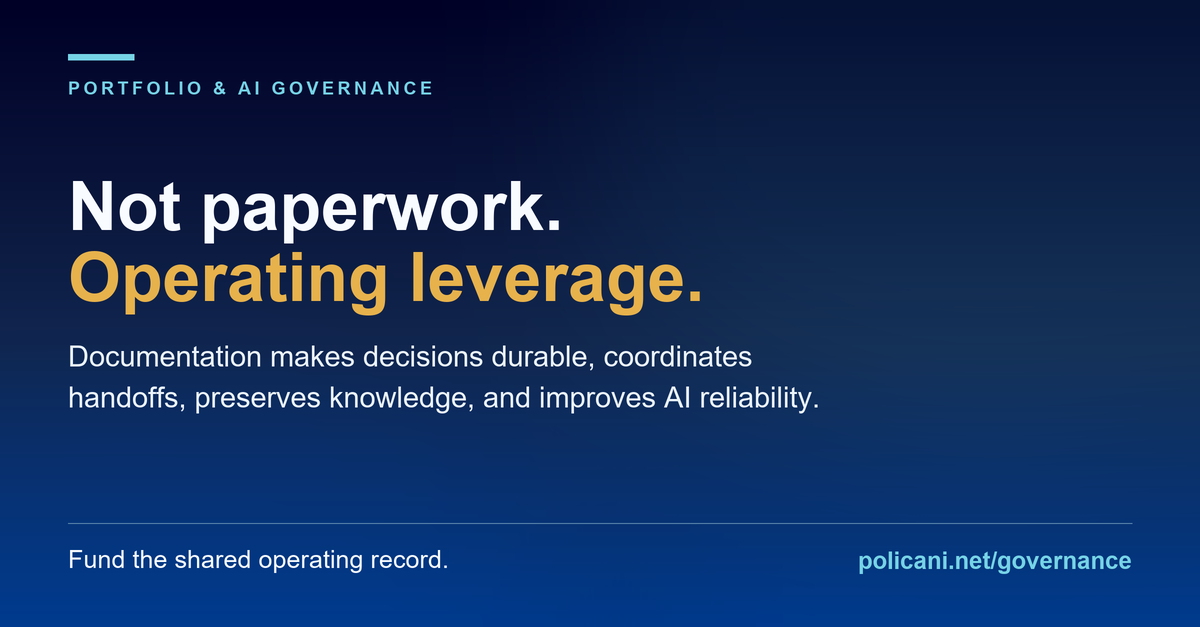
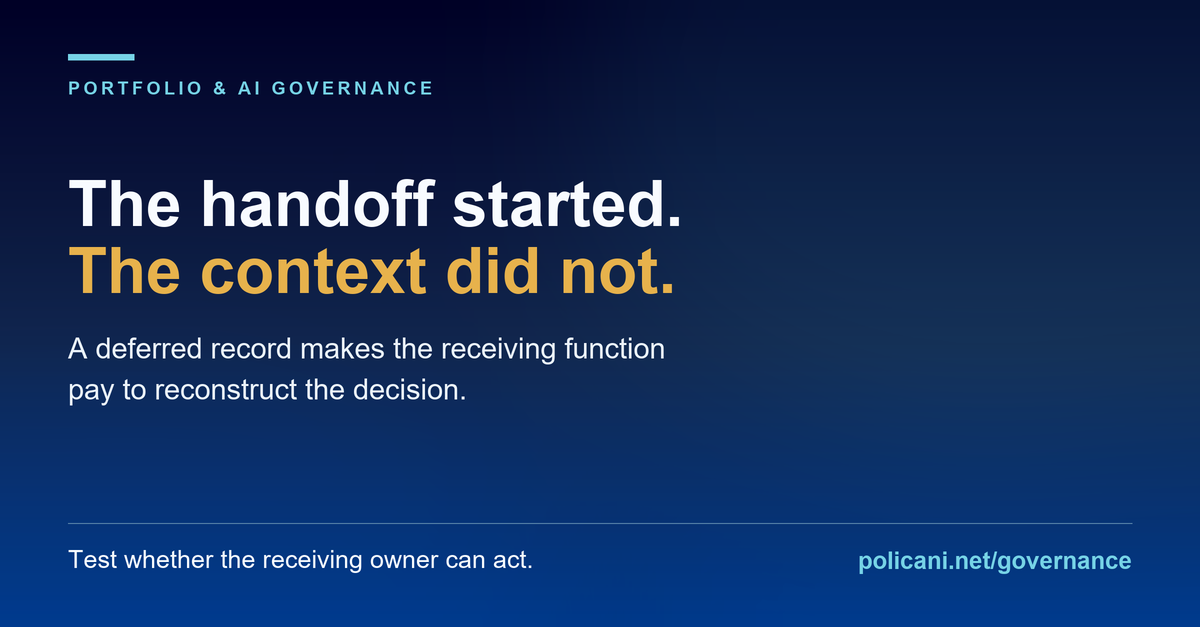
Field note: clarify TL;DR — approvals vs. an authorized decision, governance vs. decision ownership

Changed region(s): [[0.0617, 0.2727, 0.5858, 0.5152], [0.0617, 0.5455, 0.6783, 0.6667], [0.0617, 0.8788, 0.4625, 0.9091]]

diff --git a/governance/index.html b/governance/index.html
@@ -33,11 +33,11 @@
 <section id="library" class="library-index-intro" aria-labelledby="library-heading"><div class="section-inner"><p class="section-kicker">The complete library</p><h2 id="library-heading">Govern the decisions that shape delivery and AI.</h2><p class="lead">Browse every field note on one page. Search by a decision, operating problem, or topic, or move directly to the chapter closest to the work in front of you.</p><div class="library-tools"><label class="library-search"><span>Search all 34 field notes</span><input type="search" data-library-search placeholder="Try &quot;capacity,&quot; &quot;evaluation,&quot; or &quot;value&quot;" autocomplete="off"></label><nav class="chapter-links" aria-label="Library chapters"><a href="#portfolio-delivery">Portfolio &amp; delivery <span>14</span></a><a href="#ai-governance">AI governance <span>13</span></a><a href="#work-judgment">Work &amp; judgment <span>7</span></a></nav></div><p class="library-results" data-library-results aria-live="polite">Showing all 34 field notes.</p></div></section>
 
 <section id="portfolio-delivery" class="library-chapter chapter-portfolio" data-library-chapter aria-labelledby="portfolio-heading"><div class="section-inner"><header class="chapter-header"><div class="chapter-heading-row"><p class="section-kicker">Portfolio &amp; delivery governance</p><span class="chapter-count">14 field notes</span></div><h2 id="portfolio-heading">Make commitments, capacity, and value easier to steer.</h2><p class="lead">Decide what can move, what must wait, what is truly ready, and how expected value remains owned after approval.</p></header><div class="editorial-grid">
-<article class="library-entry entry-feature" data-sequence="35" data-category="Portfolio &amp; delivery governance" data-summary="In a cross-domain approval meeting, every specialist can be right while the enterprise decision goes unmade. Domain leaders keep their standards and judgment; the EPMO owns the framework that ties the combined conditions into one authorized decision anyone can reconstruct later."><span class="entry-kicker">Field note &middot; Aug 2026</span><h3><a href="field-notes/enterprise-governance-ownership.html">Who owns governance?</a></h3><p>In a cross-domain approval meeting, every specialist can be right while the enterprise decision goes unmade. Domain leaders keep their standards and judgment; the EPMO owns the framework that ties the combined conditions into one authorized decision anyone can reconstruct later.</p><div class="entry-links"><a href="field-notes/enterprise-governance-ownership.html">Read note</a><a href="whitepapers/marco-policani-enterprise-governance-ownership.pdf">White paper</a></div></article>
-<article class="library-entry" data-sequence="33" data-category="Portfolio &amp; delivery governance" data-summary="Hitting the target does not prove the decision was sound or even that the outcome was successful. Judge what was achieved, how it was achieved, and whether the original decision was reasonable given what was known at the time."><span class="entry-kicker">Field note &middot; Aug 2026</span><h3><a href="field-notes/separate-the-decision-from-the-outcome.html">Separate the decision from the outcome</a></h3><div class="entry-links"><a href="field-notes/separate-the-decision-from-the-outcome.html">Read note</a><a href="whitepapers/marco-policani-separate-the-decision-from-the-outcome.pdf">White paper</a></div></article>
+<article class="library-entry entry-feature" data-sequence="35.0" data-category="Portfolio &amp; delivery governance" data-summary="In a cross-domain approval meeting, every domain can sign off on its own area and the enterprise decision still goes unmade. Owning governance is not owning that decision: domain leaders keep their standards, the sponsor owns the outcome, and the EPMO owns the framework that lets an authorized leader turn those separate approvals into one decision anyone can reconstruct later."><span class="entry-kicker">Field note &middot; Aug 2026</span><h3><a href="field-notes/enterprise-governance-ownership.html">Who owns governance?</a></h3><p>In a cross-domain approval meeting, every domain can sign off on its own area and the enterprise decision still goes unmade. Owning governance is not owning that decision: domain leaders keep their standards, the sponsor owns the outcome, and the EPMO owns the framework that lets an authorized leader turn those separate approvals into one decision anyone can reconstruct later.</p><div class="entry-links"><a href="field-notes/enterprise-governance-ownership.html">Read note</a><a href="whitepapers/marco-policani-enterprise-governance-ownership.pdf">White paper</a></div></article>
+<article class="library-entry" data-sequence="33.0" data-category="Portfolio &amp; delivery governance" data-summary="Hitting the target does not prove the decision was sound or even that the outcome was successful. Judge what was achieved, how it was achieved, and whether the original decision was reasonable given what was known at the time."><span class="entry-kicker">Field note &middot; Aug 2026</span><h3><a href="field-notes/separate-the-decision-from-the-outcome.html">Separate the decision from the outcome</a></h3><div class="entry-links"><a href="field-notes/separate-the-decision-from-the-outcome.html">Read note</a><a href="whitepapers/marco-policani-separate-the-decision-from-the-outcome.pdf">White paper</a></div></article>
 <article class="library-entry" data-sequence="32" data-category="Portfolio &amp; delivery governance" data-summary="Govern a portfolio by moving capacity in short cycles on evidence, not by defending an annual plan."><span class="entry-kicker">Field note &middot; Aug 2026</span><h3><a href="field-notes/capital-reallocation-real-portfolio-decision.html">Capital reallocation is the real portfolio decision</a></h3><div class="entry-links"><a href="field-notes/capital-reallocation-real-portfolio-decision.html">Read note</a><a href="whitepapers/marco-policani-capital-reallocation-real-portfolio-decision.pdf">White paper</a></div></article>
 <article class="library-entry" data-sequence="30" data-category="Portfolio &amp; delivery governance" data-summary="Assign who recommends, agrees, decides, and performs for each consequential choice, then embed those rights in the workflow."><span class="entry-kicker">Field note &middot; Aug 2026</span><h3><a href="field-notes/decision-rights-are-a-system-design-choice.html">Decision rights are a system-design choice</a></h3><div class="entry-links"><a href="field-notes/decision-rights-are-a-system-design-choice.html">Read note</a><a href="whitepapers/marco-policani-decision-rights-are-a-system-design-choice.pdf">White paper</a></div></article>
-<article class="library-entry" data-sequence="29" data-category="Portfolio &amp; delivery governance" data-summary="Standardize a reusable operating component only after it has earned cross-project reliance through evidence, ownership, bounded variants, visible change control, exception signals, and a retirement path."><span class="entry-kicker">Field note &middot; Aug 2026</span><h3><a href="field-notes/standardize-the-component-not-the-project.html">Standardize the Component, Not the Project</a></h3><div class="entry-links"><a href="field-notes/standardize-the-component-not-the-project.html">Read note</a><a href="whitepapers/marco-policani-standardize-the-component-not-the-project.pdf">White paper</a></div></article>
+<article class="library-entry" data-sequence="29.0" data-category="Portfolio &amp; delivery governance" data-summary="Standardize a reusable operating component only after it has earned cross-project reliance through evidence, ownership, bounded variants, visible change control, exception signals, and a retirement path."><span class="entry-kicker">Field note &middot; Aug 2026</span><h3><a href="field-notes/standardize-the-component-not-the-project.html">Standardize the Component, Not the Project</a></h3><div class="entry-links"><a href="field-notes/standardize-the-component-not-the-project.html">Read note</a><a href="whitepapers/marco-policani-standardize-the-component-not-the-project.pdf">White paper</a></div></article>
 <article class="library-entry" data-sequence="21" data-category="Portfolio &amp; delivery governance" data-summary="Replace the brittle annual plan with scenarios that make capacity, tradeoffs, and decision consequences visible."><span class="entry-kicker">Field note &middot; Jul 2026</span><h3><a href="field-notes/portfolio-scenarios-not-plan.html">A portfolio needs scenarios, not a single annual plan</a></h3><div class="entry-links"><a href="field-notes/portfolio-scenarios-not-plan.html">Read note</a><a href="whitepapers/marco-policani-portfolio-scenarios-not-plan.pdf">White paper</a></div></article>
 <article class="library-entry" data-sequence="20" data-category="Portfolio &amp; delivery governance" data-summary="Make the decisions holding up the work visible before delay turns into rework."><span class="entry-kicker">Field note &middot; Jul 2026</span><h3><a href="field-notes/decision-friction-portfolio-risk.html">Decision friction is a portfolio risk</a></h3><div class="entry-links"><a href="field-notes/decision-friction-portfolio-risk.html">Read note</a><a href="whitepapers/marco-policani-decision-friction-portfolio-risk.pdf">White paper</a></div></article>
 <article class="library-entry" data-sequence="19" data-category="Portfolio &amp; delivery governance" data-summary="A useful PMO dashboard shows investment health, not only delivery activity."><span class="entry-kicker">Field note &middot; Jul 2026</span><h3><a href="field-notes/investment-health-dashboard.html">A PMO dashboard should show investment health</a></h3><div class="entry-links"><a href="field-notes/investment-health-dashboard.html">Read note</a><a href="whitepapers/marco-policani-investment-health-dashboard.pdf">White paper</a></div></article>
@@ -66,7 +66,7 @@
 </div></div></section>
 
 <section id="work-judgment" class="library-chapter chapter-work" data-library-chapter aria-labelledby="work-heading"><div class="section-inner"><header class="chapter-header"><div class="chapter-heading-row"><p class="section-kicker">Work, adoption &amp; judgment</p><span class="chapter-count">7 field notes</span></div><h2 id="work-heading">Design work that preserves learning and accountability.</h2><p class="lead">Use AI to improve judgment, reduce coordination burden, and strengthen evidence without eroding the people and operating knowledge the work depends on.</p></header><div class="editorial-grid">
-<article class="library-entry entry-feature" data-sequence="34" data-category="Work, adoption &amp; judgment" data-summary="Govern AI on evidence of the work — a baseline, a work-output signal, and a review that separates felt speed from delivered outcome — because self-reported speedup is not operating evidence."><span class="entry-kicker">Field note &middot; Aug 2026</span><h3><a href="field-notes/felt-productivity-not-measured-productivity.html">Felt productivity is not measured productivity</a></h3><p>Govern AI on evidence of the work — a baseline, a work-output signal, and a review that separates felt speed from delivered outcome — because self-reported speedup is not operating evidence.</p><div class="entry-links"><a href="field-notes/felt-productivity-not-measured-productivity.html">Read note</a><a href="whitepapers/marco-policani-felt-productivity-not-measured-productivity.pdf">White paper</a></div></article>
+<article class="library-entry entry-feature" data-sequence="34.0" data-category="Work, adoption &amp; judgment" data-summary="Govern AI on evidence of the work — a baseline, a work-output signal, and a review that separates felt speed from delivered outcome — because self-reported speedup is not operating evidence."><span class="entry-kicker">Field note &middot; Aug 2026</span><h3><a href="field-notes/felt-productivity-not-measured-productivity.html">Felt productivity is not measured productivity</a></h3><p>Govern AI on evidence of the work — a baseline, a work-output signal, and a review that separates felt speed from delivered outcome — because self-reported speedup is not operating evidence.</p><div class="entry-links"><a href="field-notes/felt-productivity-not-measured-productivity.html">Read note</a><a href="whitepapers/marco-policani-felt-productivity-not-measured-productivity.pdf">White paper</a></div></article>
 <article class="library-entry" data-sequence="28" data-category="Work, adoption &amp; judgment" data-summary="Automation is only as reliable as its recovery path; classify exceptions and make accountable human response part of the workflow."><span class="entry-kicker">Field note &middot; Jul 2026</span><h3><a href="field-notes/exception-path-automation.html">The exception path is the real automated workflow</a></h3><div class="entry-links"><a href="field-notes/exception-path-automation.html">Read note</a><a href="whitepapers/marco-policani-exception-path-automation.pdf">White paper</a></div></article>
 <article class="library-entry" data-sequence="27" data-category="Work, adoption &amp; judgment" data-summary="Design the coordination topology before declaring work streamlined, autonomous, or automated."><span class="entry-kicker">Field note &middot; Jul 2026</span><h3><a href="field-notes/coordination-tax.html">The coordination tax</a></h3><div class="entry-links"><a href="field-notes/coordination-tax.html">Read note</a><a href="whitepapers/marco-policani-coordination-tax.pdf">White paper</a></div></article>
 <article class="library-entry" data-sequence="15" data-category="Work, adoption &amp; judgment" data-summary="A working demonstration and a credible leadership story can still leave a sponsor unable to inspect the claim. One record created during delivery can support the next AI investment decision and the leader's later, bounded account of the work."><span class="entry-kicker">Field note &middot; Jul 2026</span><h3><a href="field-notes/prove-it-economy-careers-ai-programs.html">The prove-it economy is coming for careers and AI programs</a></h3><div class="entry-links"><a href="field-notes/prove-it-economy-careers-ai-programs.html">Read note</a><a href="whitepapers/marco-policani-prove-it-economy-careers-ai-programs.pdf">White paper</a></div></article>

diff --git a/governance/field-notes/enterprise-governance-ownership.html b/governance/field-notes/enterprise-governance-ownership.html
@@ -4,11 +4,11 @@
 <meta charset="utf-8">
 <meta name="viewport" content="width=device-width, initial-scale=1">
 <title>Who owns governance? | Marco Policani</title>
-<meta name="description" content="In a cross-domain approval meeting, every specialist can be right while the enterprise decision goes unmade. Domain leaders keep their standards and judgment; the EPMO owns the framework that ties the combined conditions into one authorized decision anyone can reconstruct later.">
+<meta name="description" content="In a cross-domain approval meeting, every domain can sign off on its own area and the enterprise decision still goes unmade. Owning governance is not owning that decision: domain leaders keep their standards, the sponsor owns the outcome, and the EPMO owns the framework that lets an authorized leader turn those separate approvals into one decision anyone can reconstruct later.">
 <meta name="author" content="Marco Policani">
 <meta name="robots" content="index, follow">
 <meta property="og:title" content="Who owns governance? | Marco Policani">
-<meta property="og:description" content="In a cross-domain approval meeting, every specialist can be right while the enterprise decision goes unmade. Domain leaders keep their standards and judgment; the EPMO owns the framework that ties the combined conditions into one authorized decision anyone can reconstruct later.">
+<meta property="og:description" content="In a cross-domain approval meeting, every domain can sign off on its own area and the enterprise decision still goes unmade. Owning governance is not owning that decision: domain leaders keep their standards, the sponsor owns the outcome, and the EPMO owns the framework that lets an authorized leader turn those separate approvals into one decision anyone can reconstruct later.">
 <meta property="og:type" content="article">
 <meta property="og:url" content="https://policani.net/governance/field-notes/enterprise-governance-ownership.html">
 <meta property="og:image" content="https://policani.net/assets/field-note-enterprise-governance-ownership-1200x627.png">
@@ -16,7 +16,7 @@
 <link rel="canonical" href="https://policani.net/governance/field-notes/enterprise-governance-ownership.html">
 <link rel="icon" type="image/svg+xml" href="../../assets/favicon.svg">
 <link rel="stylesheet" href="../../assets/portfolio-site.css?v=20260720-fieldnote-hero">
-<script type="application/ld+json">{"@context":"https://schema.org","@type":"Article","headline":"Who owns governance?","description":"In a cross-domain approval meeting, every specialist can be right while the enterprise decision goes unmade. Domain leaders keep their standards and judgment; the EPMO owns the framework that ties the combined conditions into one authorized decision anyone can reconstruct later.","dateModified":"2026-08-13","author":{"@type":"Person","name":"Marco Policani","url":"https://policani.net/"},"mainEntityOfPage":"https://policani.net/governance/field-notes/enterprise-governance-ownership.html"}</script>
+<script type="application/ld+json">{"@context":"https://schema.org","@type":"Article","headline":"Who owns governance?","description":"In a cross-domain approval meeting, every domain can sign off on its own area and the enterprise decision still goes unmade. Owning governance is not owning that decision: domain leaders keep their standards, the sponsor owns the outcome, and the EPMO owns the framework that lets an authorized leader turn those separate approvals into one decision anyone can reconstruct later.","dateModified":"2026-08-13","author":{"@type":"Person","name":"Marco Policani","url":"https://policani.net/"},"mainEntityOfPage":"https://policani.net/governance/field-notes/enterprise-governance-ownership.html"}</script>
 <link rel="preconnect" href="https://fonts.googleapis.com">
 <link rel="preconnect" href="https://fonts.gstatic.com" crossorigin>
 <link href="https://fonts.googleapis.com/css2?family=Inter:wght@300;400;500;600&family=Geist+Mono:wght@400;500&display=swap" rel="stylesheet">
@@ -43,7 +43,7 @@
     <div class="hero-copy">
       <p class="eyebrow"><a href="../index.html#portfolio-delivery">Portfolio &amp; delivery governance</a> &middot; Field note</p>
       <h1>Who owns governance?</h1>
-      <p class="subhead">In a cross-domain approval meeting, every specialist can be right while the enterprise decision goes unmade. Domain leaders keep their standards and judgment; the EPMO owns the framework that ties the combined conditions into one authorized decision anyone can reconstruct later.</p>
+      <p class="subhead">In a cross-domain approval meeting, every domain can sign off on its own area and the enterprise decision still goes unmade. Owning governance is not owning that decision: domain leaders keep their standards, the sponsor owns the outcome, and the EPMO owns the framework that lets an authorized leader turn those separate approvals into one decision anyone can reconstruct later.</p>
     </div>
   </div>
 </header>
@@ -53,7 +53,7 @@
       <div class="field-note-layout">
         <article class="field-note-tldr">
           <p class="section-kicker">TL;DR</p>
-          <p class="field-note-thesis">In a cross-domain approval meeting, every specialist can be right while the enterprise decision goes unmade. Domain leaders keep their standards and judgment; the EPMO owns the framework that ties the combined conditions into one authorized decision anyone can reconstruct later.</p>
+          <p class="field-note-thesis">In a cross-domain approval meeting, every domain can sign off on its own area and the enterprise decision still goes unmade. Owning governance is not owning that decision: domain leaders keep their standards, the sponsor owns the outcome, and the EPMO owns the framework that lets an authorized leader turn those separate approvals into one decision anyone can reconstruct later.</p>
           <div class="field-note-context">
             <h2>What the paper develops</h2>
 <h2>Who owns governance?</h2><p>The sponsor asks one question: &quot;Are we approved to proceed?&quot;</p><p>Security says yes, as long as the rollout is more tightly controlled. Data governance says yes, but not using customer transcripts the way the plan assumes. Architecture can support the design once one dependency is cleared. Operations can&#x27;t run the old and new processes side by side for the whole switchover. Finance points out that all of these changes remove the cheaper option and push the payoff date back.</p><p>Every team is right about its own area. Add the answers up, though, and you get an investment nobody actually chose. All those approvals put the decision on the table. None of them made it.</p><h3>The missing job</h3><p>Think about driving. The road authority sets the rules. The car has its limits and safety systems. The driver picks the destination and owns the trip. Navigation pulls the destination, the traffic, the closures, and the routes into one view so the driver can choose. It doesn&#x27;t write the traffic laws, and it doesn&#x27;t decide where to go. It just makes a responsible choice possible.</p><p>That navigation role is the one missing in the meeting, and it&#x27;s the one the EPMO should own: the framework around a cross-domain choice. What is being decided, which evidence has to be weighed, what options remain, and who has the authority to decide.</p><h3>Approvals are not a decision</h3><p>A strategic program can finish every review and still be ungoverned. Each condition can be sound on its own while, together, they add up to a different investment than the one the sponsor asked the organization to approve. Collecting approvals is not the same as making the decision.</p><p>In the meeting above, the plan that was approved no longer works under what&#x27;s now known. The organization could keep the outcome by funding the tighter design, or narrow the outcome to fit the limits. It could change the order, free up capacity elsewhere, wait, or stop. No single function can make that enterprise choice.</p><p>The EPMO shouldn&#x27;t overrule the specialists. It should show the sponsor whether the original outcome still holds and how the remaining options would affect the portfolio. The record also has to say who can decide and what new evidence would force another look.</p><h3>What the EPMO owns</h3><p>Enterprise leaders own the strategic and risk boundaries. Domain leaders own their standards, evidence, and expert judgments. The sponsor owns the outcome. A delegated forum or executive owns the investment decision within its authority. Independent assurance owns its review and challenge.</p><p>The EPMO owns the framework that ties the decision together. It keeps track of who owns what and what evidence each domain has to bring. It frames the portfolio options and names who decides and who can grant an exception. It keeps the escalation path, the decision record, and the review triggers. The framework makes sure the authorized decision weighs the right evidence and can be reconstructed later. It doesn&#x27;t take over the expert judgments or the business outcome.</p><p>The framework comes down to six questions. What outcome are we after? Which rules and limits apply? What do we know about current conditions? What options are still open? Who decides, and who can grant an exception? What would reopen the decision? Each one produces something an authorized leader can actually use. Together, they turn separate domain reviews into one enterprise choice without stripping the domains of their authority.</p><h3>The conversation to have first</h3><p>When an organization says the EPMO owns governance, start by asking which decisions it means. Assign each standard to its domain owner and the outcome to its sponsor. Name the authority that can accept an exception or change the investment. Then define the evidence that would force another look. Those answers turn a vague assignment into a usable operating model.</p><p>The real test is whether a skeptical executive can reconstruct the decision. That executive should be able to see the intended outcome, the limits that applied, and what the experts found. The record should show the options, who decided, the conditions they accepted, and the review trigger. A stack of meetings and status colors can&#x27;t provide that.</p><p>Come back to the sponsor&#x27;s question. The honest answer isn&#x27;t a pile of domain approvals. It&#x27;s the recorded decision an authorized leader made after seeing the conditions and their combined effect on the investment. The framework that makes that decision possible is the part of governance the EPMO owns.</p>
